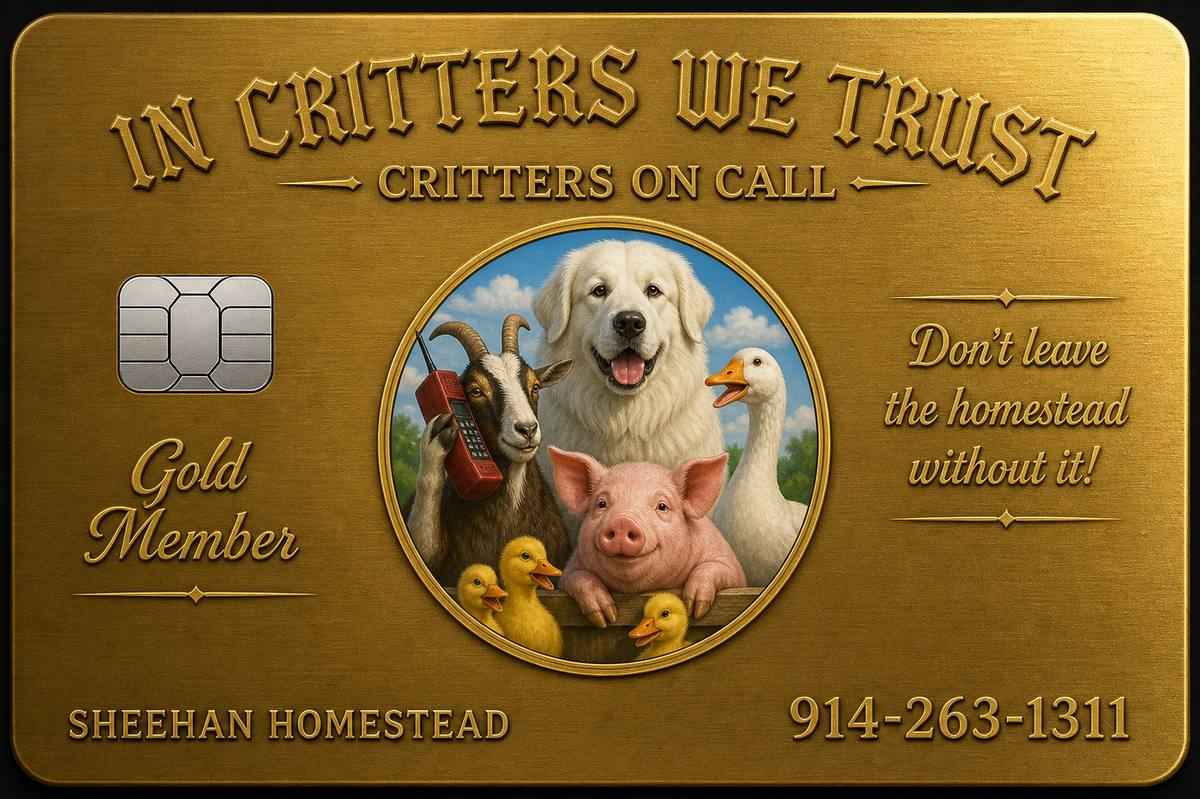
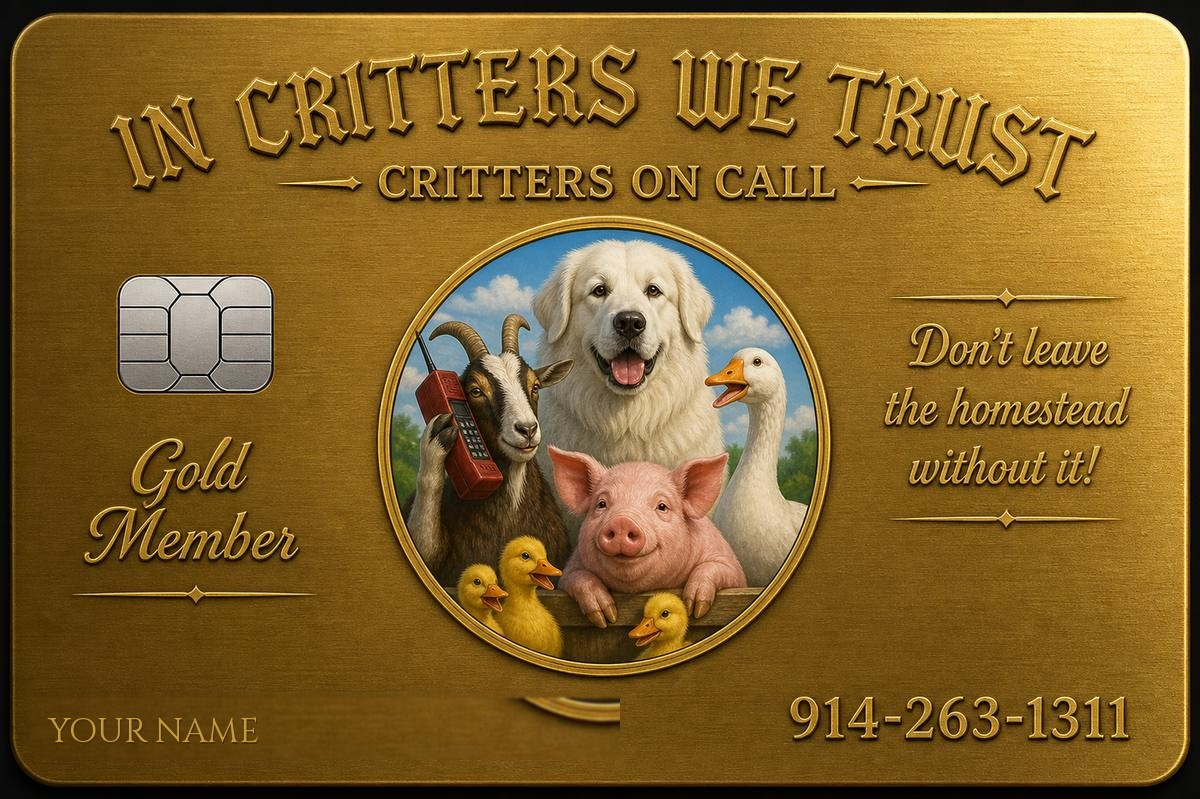
Put your name on the games membership card.
The card no longer prints Sheehan Homestead where a member's name goes.

Changed region(s): [[0.0308, 0.8711, 0.5242, 0.9312]]

diff --git a/index.html b/index.html
@@ -31,7 +31,7 @@
   <main class="main">
     <div class="stack">
       <section class="hero card-hero" aria-label="Gold membership">
-        <img src="assets/gold-card.jpg" alt="Critters on Call Gold membership card. In Critters We Trust. Sheehan Homestead." width="1200" height="760" />
+        <img src="assets/gold-card.jpg?v=yourname" alt="Critters on Call Gold membership card. In Critters We Trust. your name." width="1200" height="760" />
       </section>
 
       <!-- Weekly email claim and the bigger wheel are not built yet. -->
